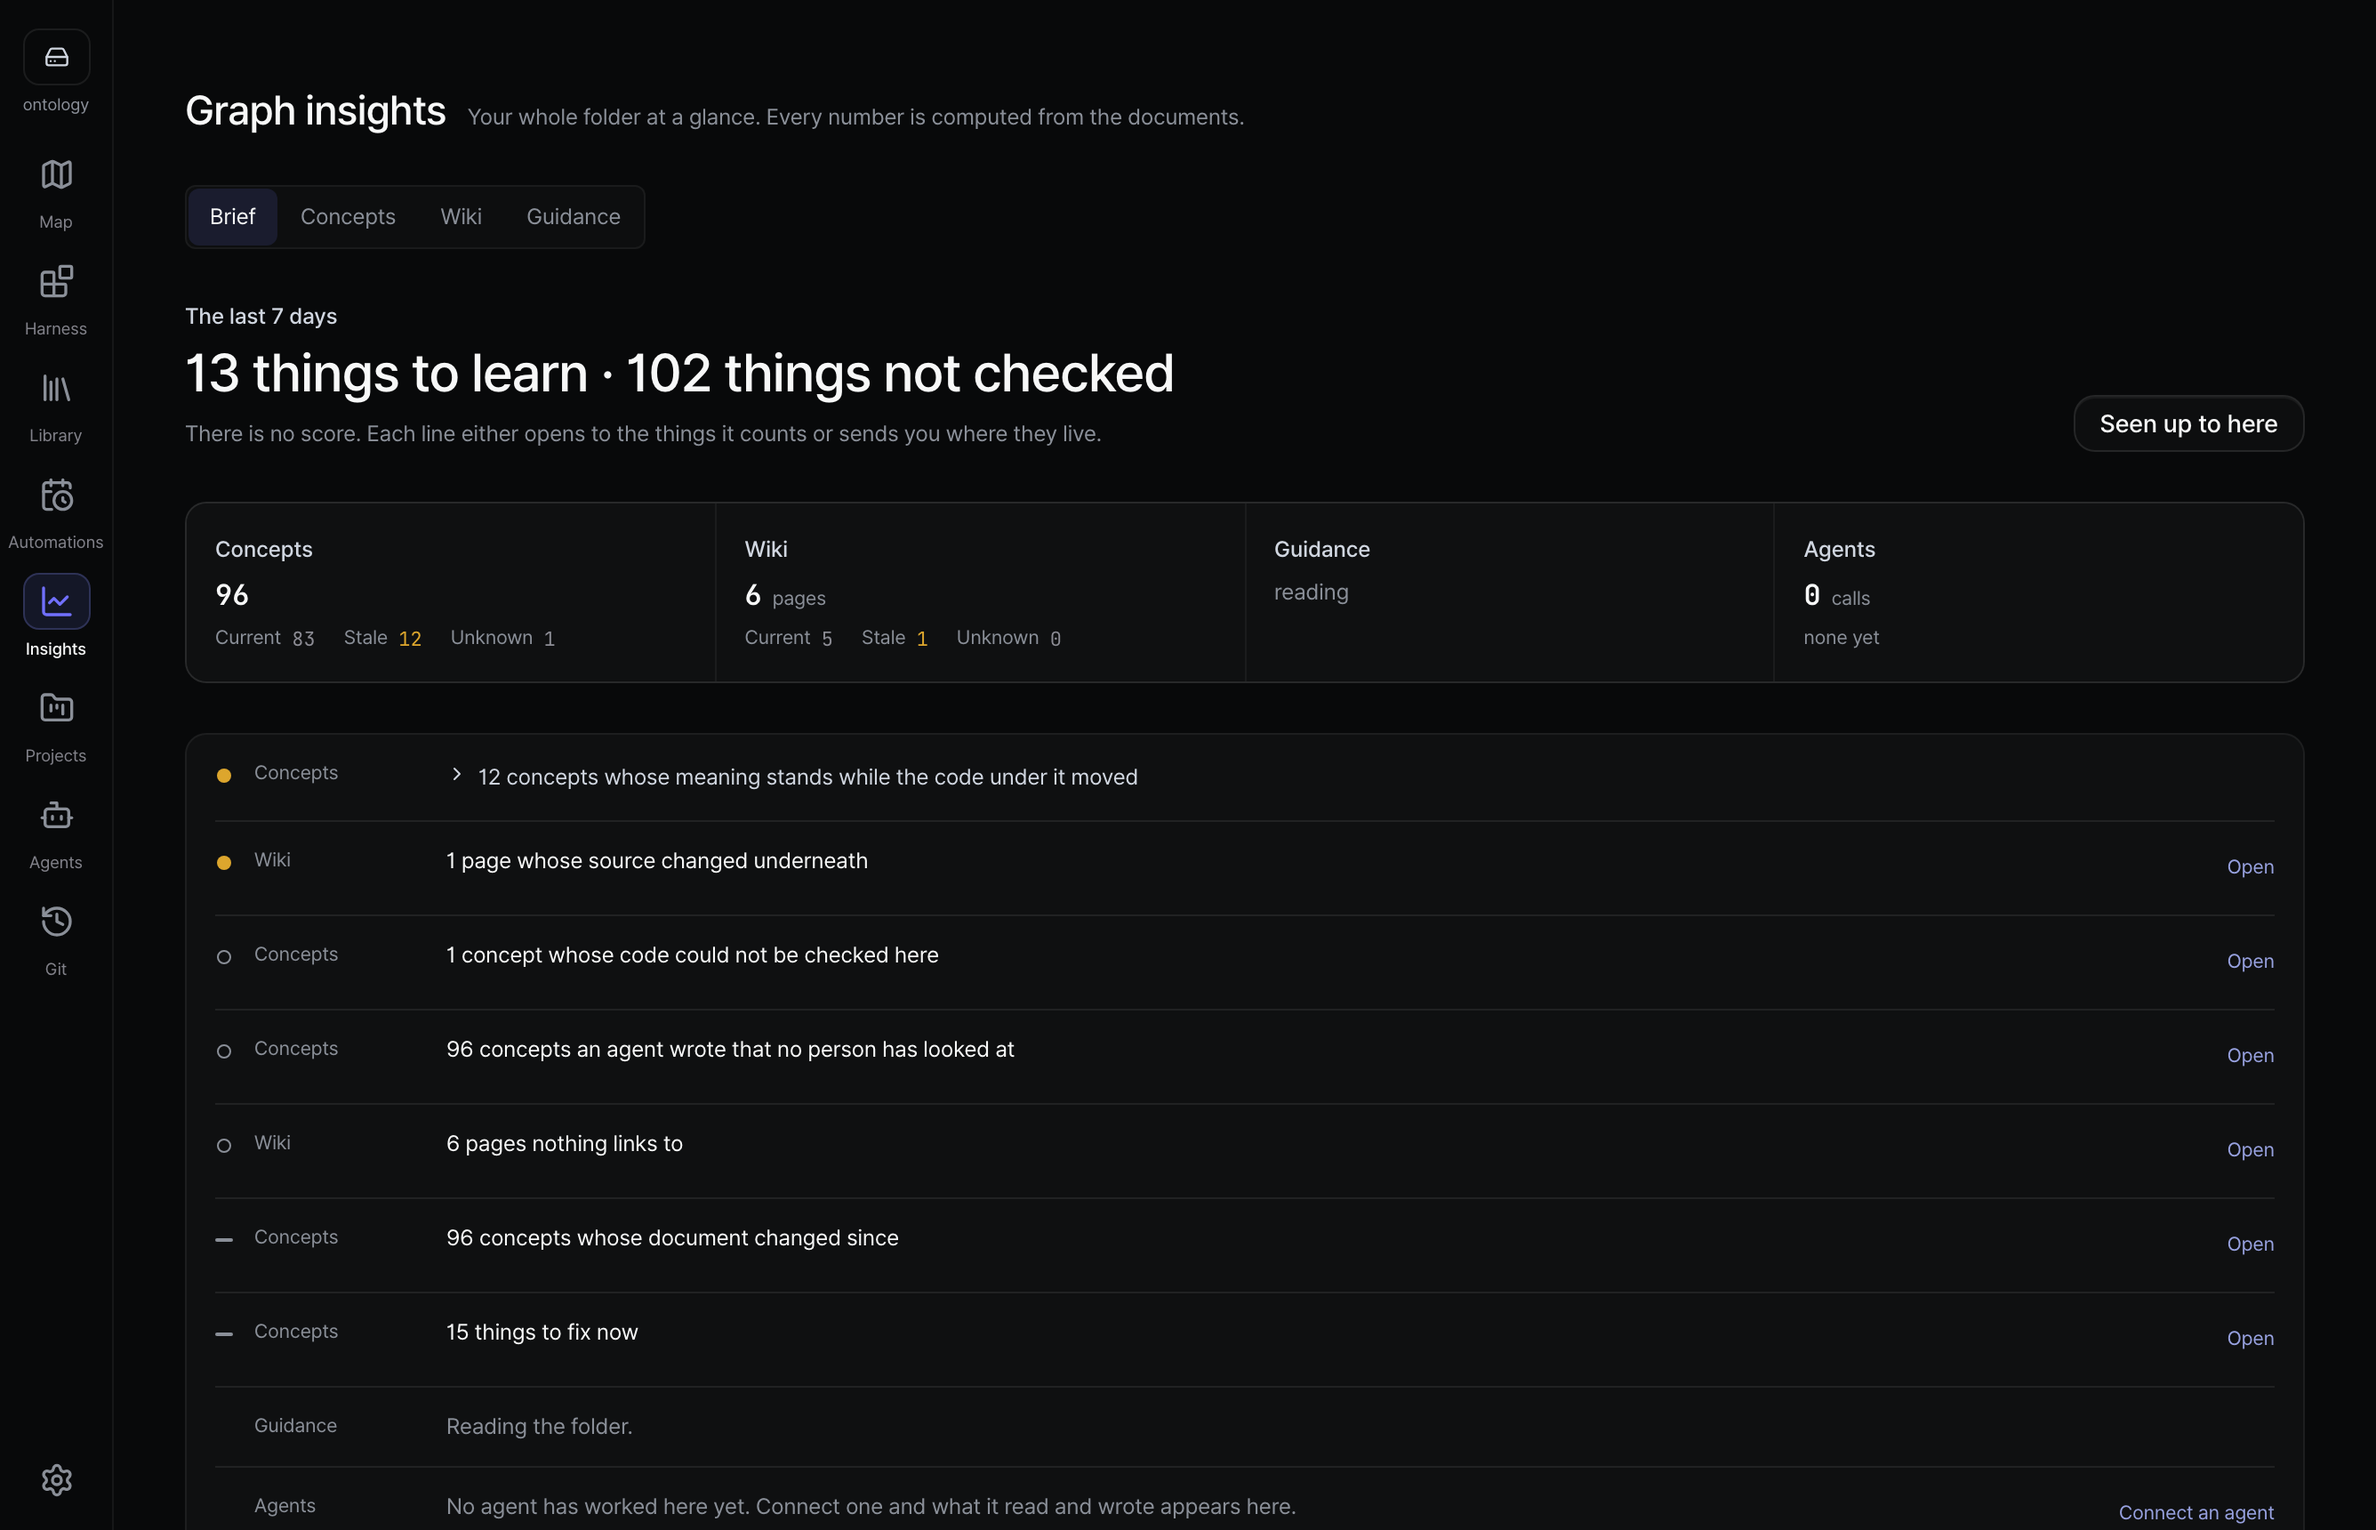
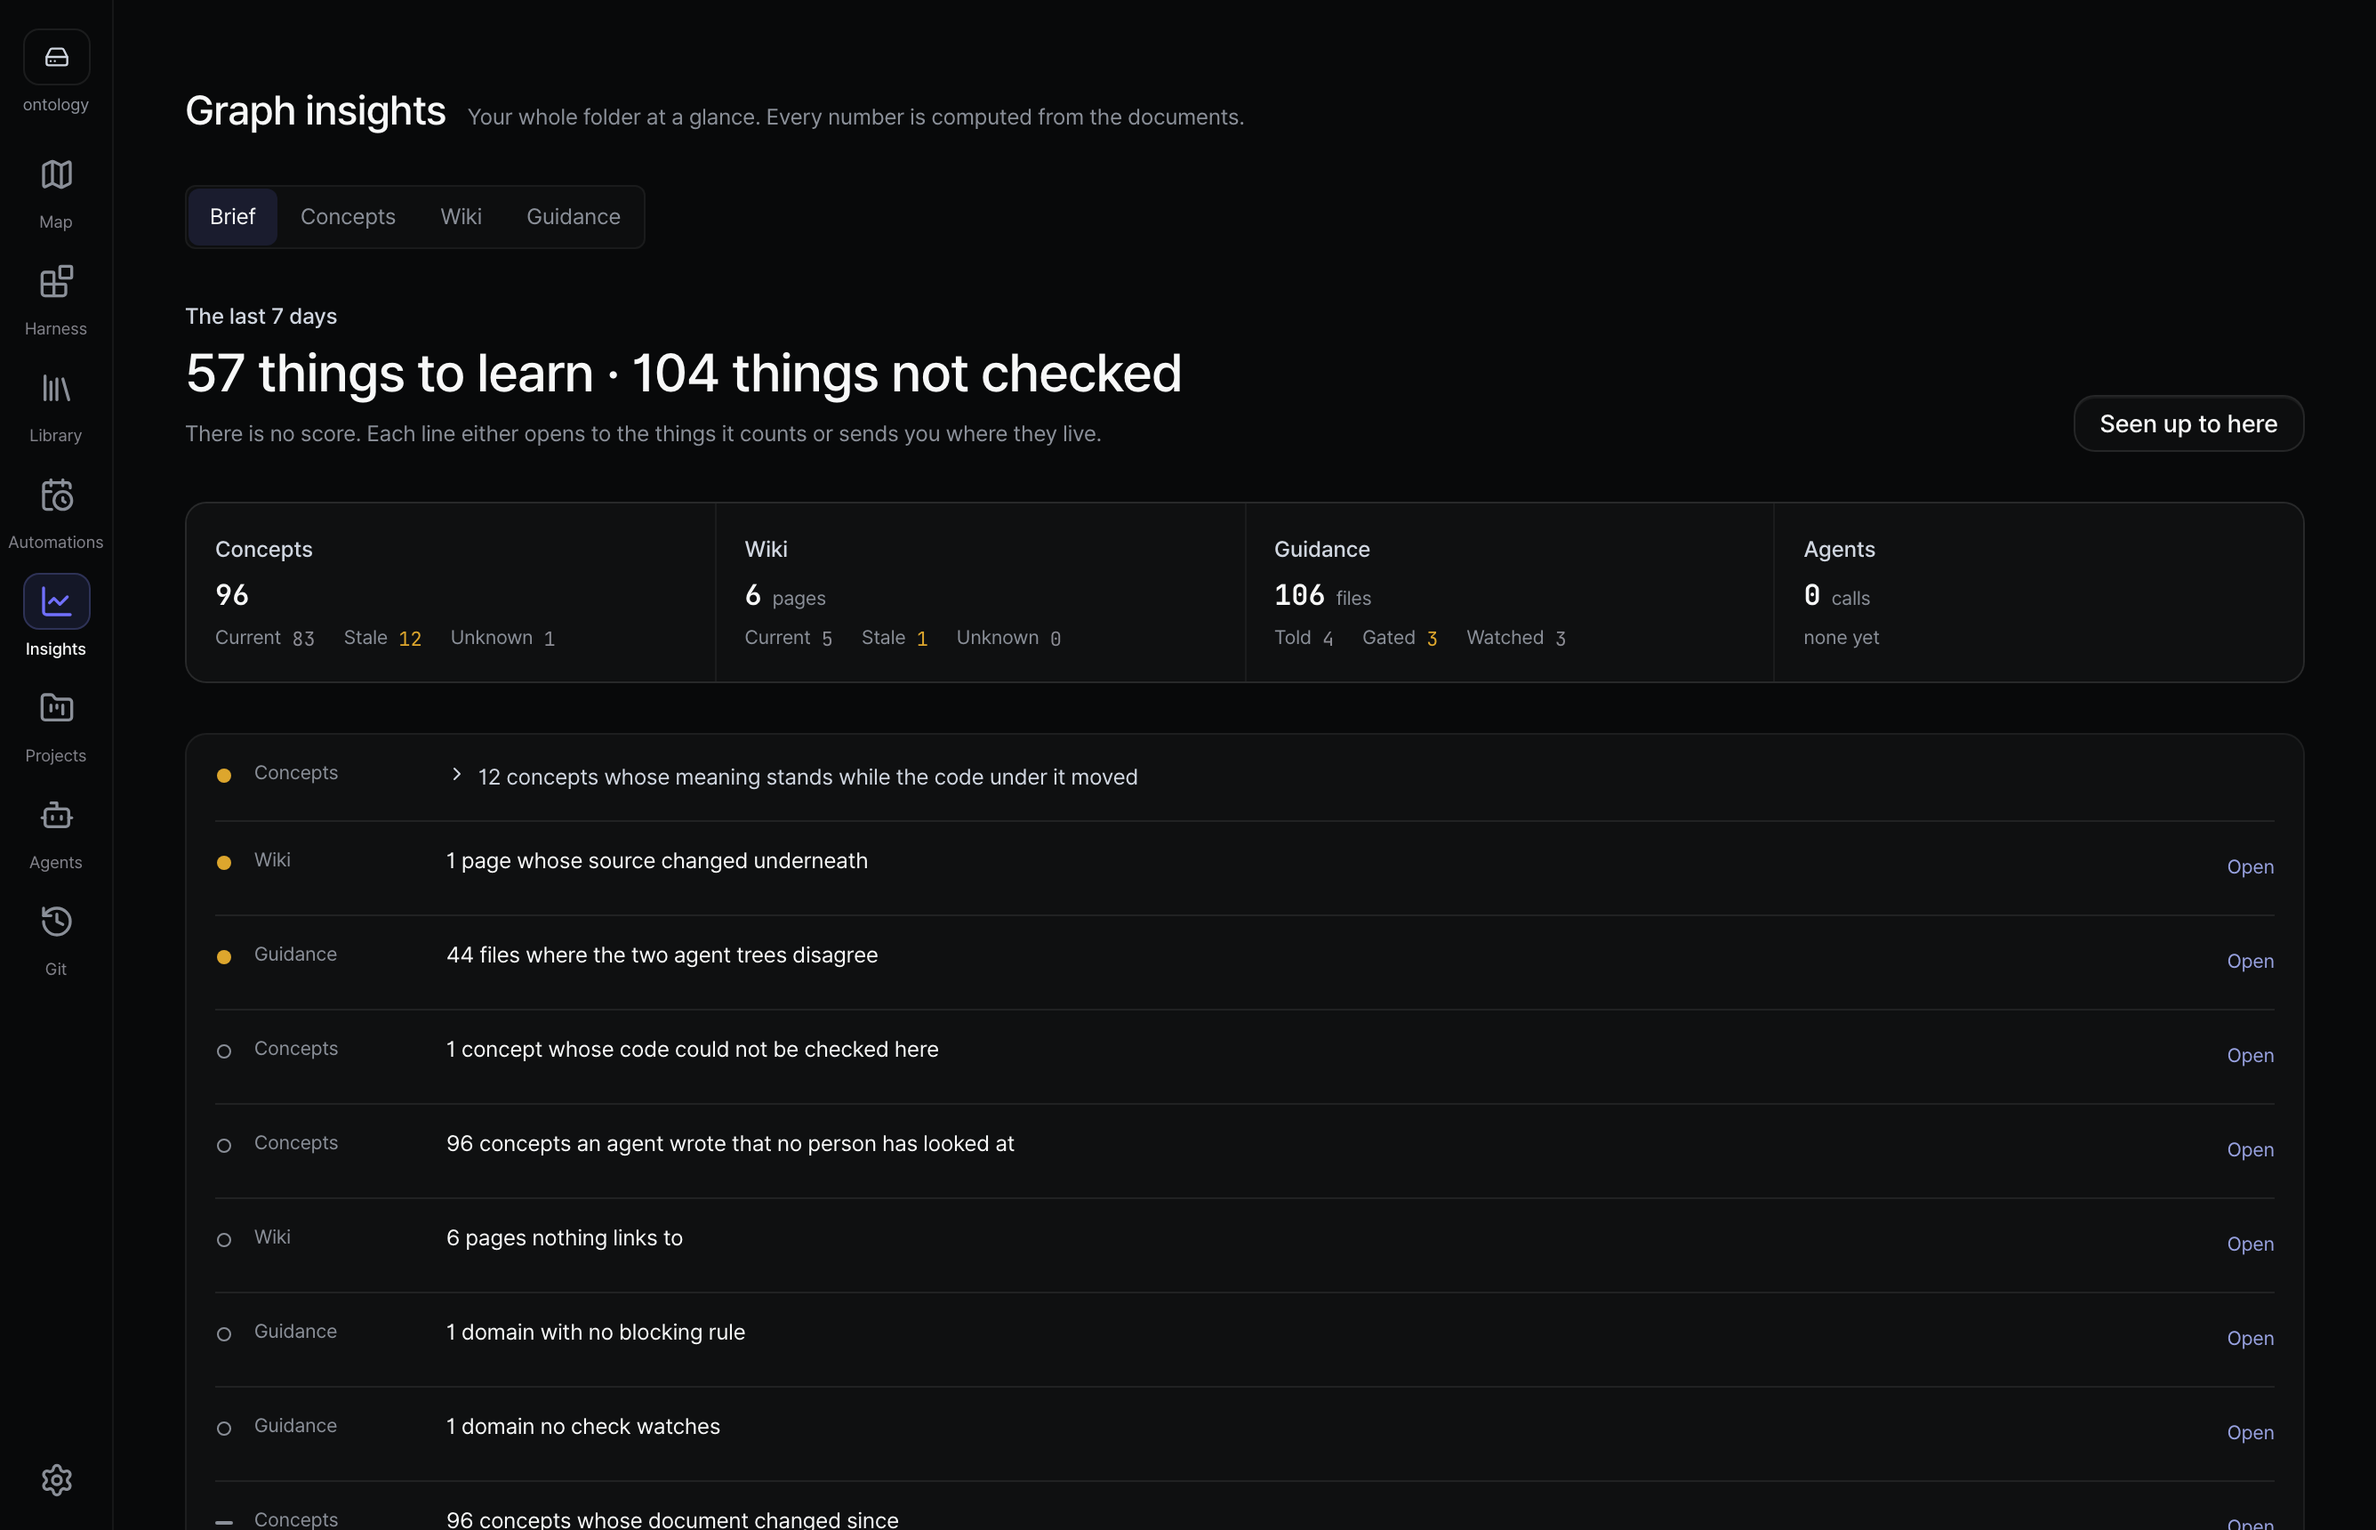
fix(library): the graph names concepts in the screen's language
On a Korean screen the Library graph's concept column printed English
titles beside Korean page titles: buildLibraryGraph labelled concepts
with `title` and never read `display_<locale>`, though the documents
record one. It now resolves the label the way the map does, falling back
to the title where no localized name exists.

The gateway capture now waits until every brief core has an answer
instead of a fixed pause, so the Insights picture no longer shows the
guidance core still reading. The Library and Insights captures are
re-shot in both locales.

diff --git a/src/widgets/library-graph/model/build-library-graph.test.ts b/src/widgets/library-graph/model/build-library-graph.test.ts
@@ -38,6 +38,40 @@ const CHECKOUT = doc({
 });
 
 describe("the library graph", () => {
+  it("names a concept in the screen's language, both ways a concept joins the picture", () => {
+    const setup = doc({
+      slug: "capabilities/agent-connector-setup",
+      title: "Agent connector setup",
+      frontmatter: { kind: "capability", display_ko: "에이전트 커넥터 설정" },
+      linksOut: ["wiki/agent-connection"],
+    });
+    const map = doc({
+      slug: "capabilities/ontology-map",
+      title: "Ontology map",
+      frontmatter: { kind: "capability", display_ko: "온톨로지 지도" },
+    });
+    const bare = doc({ slug: "capabilities/no-korean", title: "No Korean name", frontmatter: { kind: "capability" } });
+    const docs = [
+      setup,
+      map,
+      bare,
+      doc({ slug: "wiki/agent-connection", linksOut: ["capabilities/ontology-map", "capabilities/no-korean"] }),
+    ];
+    const wikiPages = [page("wiki/agent-connection")];
+    const label = (graph: ReturnType<typeof buildLibraryGraph>, slug: string) =>
+      graph.nodes.find((node) => node.id === `concept:${slug}`)?.label;
+
+    const ko = buildLibraryGraph({ docs, wikiPages, sources: [], locale: "ko" });
+    // A page's link to a concept, and a concept's link to a page: both read `display_ko`.
+    expect(label(ko, "capabilities/ontology-map")).toBe("온톨로지 지도");
+    expect(label(ko, "capabilities/agent-connector-setup")).toBe("에이전트 커넥터 설정");
+    // No Korean name recorded: the title, not an empty mark.
+    expect(label(ko, "capabilities/no-korean")).toBe("No Korean name");
+
+    const en = buildLibraryGraph({ docs, wikiPages, sources: [], locale: "en" });
+    expect(label(en, "capabilities/ontology-map")).toBe("Ontology map");
+  });
+
   it("draws every source, cited or not — an unattached dot is the fact that nobody wrote it up", () => {
     const graph = buildLibraryGraph({
       docs: [doc({ slug: "wiki/plan" })],

diff --git a/src/widgets/library-graph/model/build-library-graph.ts b/src/widgets/library-graph/model/build-library-graph.ts
@@ -1,4 +1,5 @@
 import { buildTopologyDeeplinkForDoc, type VaultDoc } from "@/entities/docs-vault";
+import { resolveLocaleDisplayName } from "@/shared/lib/locale-display-name";
 
 /**
  * The library's own small graph — **what this folder's write-ups are made of**.
@@ -145,12 +146,21 @@ export function buildLibraryGraph({
   docs,
   wikiPages,
   sources,
+  locale,
 }: {
   /** Every document in the manifest — the lookup that resolves a page's wikilinks. */
   docs: readonly VaultDoc[];
   wikiPages: readonly LibraryGraphPage[];
   sources: readonly LibraryGraphSource[] | undefined;
+  /**
+   * The screen's locale. A concept is named the way the map names it — its `display_<locale>`
+   * when the document has one, else its `title` — so a Korean screen does not print English
+   * concept names beside Korean page titles (found in the gateway capture, 2026-09-24).
+   */
+  locale?: string;
 }): LibraryGraph {
+  const conceptLabel = (doc: VaultDoc): string =>
+    resolveLocaleDisplayName(doc.frontmatter, locale, doc.title);
   const nodes: LibraryGraphNode[] = [];
   const edges: LibraryGraphEdge[] = [];
   const seen = new Set<string>();
@@ -229,7 +239,7 @@ export function buildLibraryGraph({
       push({
         id: to,
         kind: "concept",
-        label: linked.title,
+        label: conceptLabel(linked),
         ref: target,
         href: buildTopologyDeeplinkForDoc(linked),
       });
@@ -251,7 +261,7 @@ export function buildLibraryGraph({
       push({
         id: from,
         kind: "concept",
-        label: doc.title,
+        label: conceptLabel(doc),
         ref: doc.slug,
         href: buildTopologyDeeplinkForDoc(doc),
       });

diff --git a/src/widgets/library-graph/ui/LibraryGraph.tsx b/src/widgets/library-graph/ui/LibraryGraph.tsx
@@ -214,12 +214,13 @@ export function LibraryGraph({
   cardFacts,
 }: LibraryGraphProps) {
   const t = useTranslations("library");
+  const locale = useLocale();
   const router = useRouter();
   const reducedMotion = usePrefersReducedMotion();
 
   const wholeGraph = useMemo(
-    () => buildLibraryGraph({ docs, wikiPages, sources }),
-    [docs, sources, wikiPages],
+    () => buildLibraryGraph({ docs, wikiPages, sources, locale }),
+    [docs, locale, sources, wikiPages],
   );
   /**
    * **The island a person stepped onto.** On a folder past `ISLANDS_MIN_MARKS` the home is a
@@ -382,7 +383,6 @@ export function LibraryGraph({
   // the camera decides that. See the note above the removed threshold.
   const standingLabels = true;
   const islandLabels = useMemo(() => ({ unsorted: t("graph.islandUnsorted"), unread: t("graph.islandUnread") }), [t]);
-  const locale = useLocale();
   const engine = useLibraryGraphEngine({
     graph,
     islandLabels,

diff --git a/docs/records/changes/2026-09-24-library-graph-localized-concepts-a1cbea18-3c9e-4d22-87c8-b33eb79fd75a.md b/docs/records/changes/2026-09-24-library-graph-localized-concepts-a1cbea18-3c9e-4d22-87c8-b33eb79fd75a.md
@@ -1,0 +1,6 @@
+---
+id: a1cbea18-3c9e-4d22-87c8-b33eb79fd75a
+date: 2026-09-24
+category: Fixed
+---
+The Library graph names each concept in the screen's language: a Korean screen shows a concept's Korean name where the document records one, instead of its English title.
